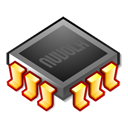
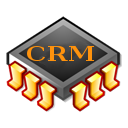
Añadidos iconos en la página de inicio

Changed region(s): [[0.1875, 0.3438, 0.75, 0.5312]]

diff --git a/INICIO.md b/INICIO.md
@@ -8,7 +8,7 @@ AVISO: Éste es el repositorio GitHub, la web está en http://crm.ii.uam.es/
 ---
 
 
-Bienvenid@ a la web oficial del Club de Robótica y Mecatrónica (CRM) de la [**Escuela Politécnica Superior**](http://www.eps.uam.es/) de la [**Universidad Autónoma de Madrid**](http://www.uam.es/).  
+¡Bienvenid@! Esta es la web oficial del Club de Robótica y Mecatrónica (CRM) de la [**Escuela Politécnica Superior**](http://www.eps.uam.es/) de la [**Universidad Autónoma de Madrid**](http://www.uam.es/).  
 
 {% for post in site.posts limit:10 %}
 {% if post.mostrarEnPortada %}
@@ -19,22 +19,58 @@ Bienvenid@ a la web oficial del Club de Robótica y Mecatrónica (CRM) de la [**
 {% endif %}
 {% endfor %}
 
-
-Nuestro objetivo es apoyar a cualquier miembro de la comunidad universitaria que quiera llevar a cabo proyectos relacionados con la robótica.
-Es decir, **tanto estudiantes como profesores pueden inscribirse y así disponer de un espacio de trabajo agradable con herramientas de uso común** (impresoras 3D, soldadores, multímetros, sierras, etc) **así como los materiales necesarios** (componentes y cables, motores, baterías, etc).
-
-Además **disponemos de un [foro (lista de correo)](/contacto)** donde ayudarnos unos a otros, y periódicamente organizamos **diversas [actividades](/actividades)** para fomentar la robótica entre los estudiantes.  
+Somos una asociación de estudiantes dedicados a fomentar el interés por la robótica en la Universidad Autónoma de Madrid y España en general.
+Periódicamente organizamos talleres, competiciones y seminarios orientados a la difusión de la robótica, la electrónica y el software.
+También proporcionamos ayuda (técnica y económica) a los estudiantes que buscan realizar proyectos relacionados con la robótica.
 
 
-* [**Blog de noticias**](/blog)  
-* [**Historia del CRM-UAM**](/historia)  
-* [**Actividades organizadas por el club**](/actividades)  
-* [**Logotipo y marketing**](/logotipo)  
-* [**Pantallas informativas**](/pantallas)  
-* [**Temas administrativos y transparencia**](/administrativo)  
+<table border="0" width="100%">
+  <tr>
+    <td>
+      <a href="/actividades">
+      <center><img src="/imagenes_web/iconos/calendario.png"/><br/><b>Actividades</b></center>
+      </a>
+    </td>
+    <td>
+      <a href="https://github.com/CRM-UAM/">
+      <center><img src="/imagenes_web/iconos/cohete.png"/><br/><b>Proyectos</b></center>
+      </a>
+    </td>
+    <td>
+      <a href="/contacto">
+      <center><img src="/imagenes_web/iconos/email.png"/><br/><b>Lista de correo<br/>y foro</b></center>
+      </a>
+    </td>
+    <td>
+      <a href="/administrativo">
+      <center><img src="/imagenes_web/iconos/administrativo.png"/><br/><b>Temas administrativos<br/>y transparencia</b></center>
+      </a>
+    </td>
+  </tr>
+  <tr>
+    <td>
+      <a href="/blog">
+      <center><img src="/imagenes_web/iconos/difusion.png"/><br/><b>Blog de noticias</b></center>
+      </a>
+    </td>
+    <td>
+      <a href="/registro">
+      <center><img src="/imagenes_web/iconos/nuevoCRMiembro.png"/><br/><b>¿Nuevo miembr@?</b></center>
+      </a>
+    </td>
+    <td>
+      <a href="/pantallas">
+      <center><img src="/imagenes_web/iconos/monitor.png"/><br/><b>Pantallas<br/>informativas</b></center>
+      </a>
+    </td>
+    <td>
+      <a href="/historia">
+      <center><img src="/imagenes_web/iconos/cpu.png"/><br/><b>Historia del club</b></center>
+      </a>
+    </td>
+  </tr>
+</table>
 
-Si te gusta la robótica, no dudes en [**ponerte en contacto**](/contacto) con nosotros, o directamente rellena el  
+<br/>
 
-&gt;&gt; [Formulario de **inscripción** de nuevos miembros](/registro) &lt;&lt;
---
-
+Si te gusta la robótica, no dudes en [**ponerte en contacto**](/contacto) con nosotros, o directamente rellena el [formulario de **inscripción** de nuevos miembros](/registro)
